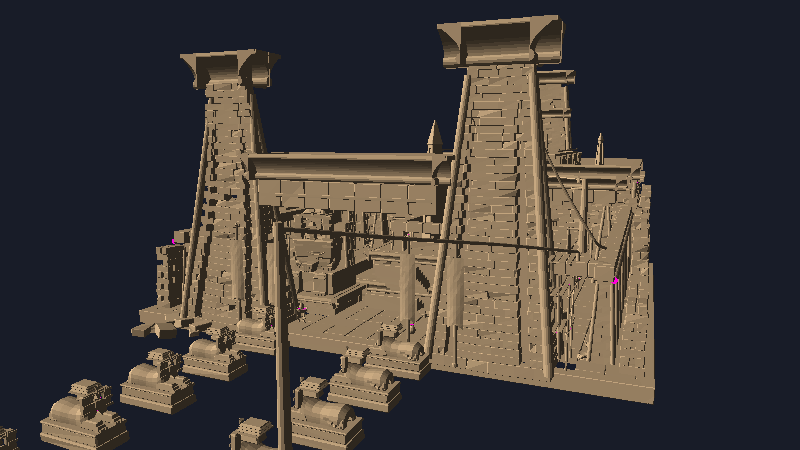
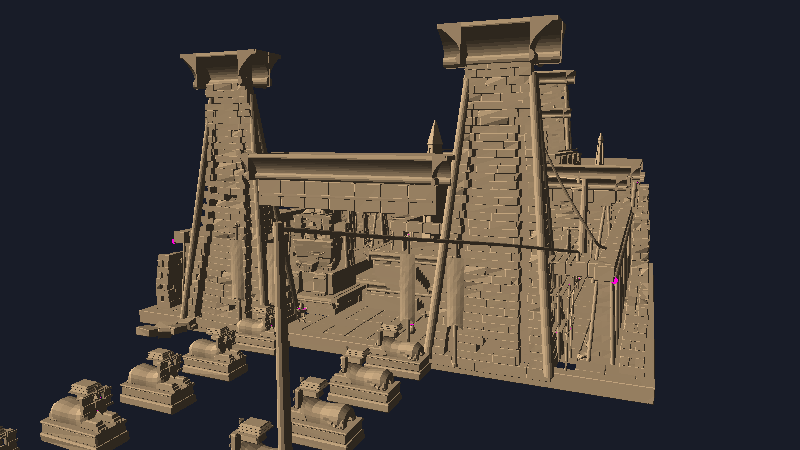
TEXTURES: the arris ring was landing on the bevel wall and cancelling there
Profiled on the built Surface rather than argued: luma against texels outside
the cut, control -> arris-on, hieroglyph_wall at 10.16 mm/texel. The lip clears
the field only at d = 2..4 and peaks at d = 2, so above-field support is ~2-3
texels = 20-30 mm, not the 61 mm the comment claimed. The 61 mm is the support
of the ring TERM, and most of it sits below the field because it is painted on
the bevel — the same surface the loop is sinking by depth * r, so the lip was
being applied to the darkest part of the carving and cancelled.

At interior's 20.3 mm/px that is 1.0-1.5 px and at traversal's 34.3 it is
0.6-0.9 px: the feature the first seal asked a frame to show was sub-pixel at
the framing holding a third of it. Gate on (1 - r) so the lip is suppressed
exactly where the bevel is sunk — same ramp, so the two cannot fight — and
take the ring from a blur of twice the bevel radius rather than four times,
which was rejected for this job before as reading like a halo.

The re-seal's amendment is timestamped 10:34 UTC, before either arm booted,
per §81.3: the gilded recipe's roughness route is now measured rather than
left as a caveat (lip 0.6565 -> 0.6345, +3.1% on specular amount against a
recipe already measured at 0.38% of its gild mask over the bloom onset), so P5
predicts null on both of its routes instead of one. If both land null, gilded's
arris goes to 0 and stays there.

Claude-Session: https://claude.ai/code/session_01PXtatFVa9WWnKz5zHerfeC

diff --git a/src/textures/Materials.js b/src/textures/Materials.js
@@ -694,6 +694,9 @@ function carve(s, cut, line, o = {}) {
   const rb = Math.max(2, Math.round((bevelPx * size) / 1024));
   const cb = blurWrap(cut, size, rb, 2);
   const cw = blurWrap(cut, size, rb * 4, 2);
+  /* A second, intermediate blur that exists only for the arris — see the ring term below for
+   * why `cb` could not do the job and why `cw` is too wide. */
+  const cm = arrisIn > 0 ? blurWrap(cut, size, rb * 2, 2) : null;
   const chat = chatter > 0
     ? s.field(1.5, (u, v) => fbmN(u, v, 90, 3, 0.5, seed + 77) * 0.5 + 0.5)
     : null;
@@ -741,7 +744,31 @@ function carve(s, cut, line, o = {}) {
      * Physically it is edge wear, not lighting: three thousand years of hand, wind and rain take
      * the dirt film off an exposed arris and leave the sheltered floor of the cut holding it. */
     if (arris > 0) {
-      const ring = sat((cb[i] - cut[i]) * 3.0);
+      /* **Where the ring lands, which the first version got wrong, measured rather than argued.**
+       *
+       * `sat((cb - cut) * 3.0)` puts its whole weight in the first two texels outside the cut
+       * mask — which is the **bevel wall**, the surface this same loop is sinking by `depth * r`.
+       * So most of the lip was painted onto the darkest part of the carving and cancelled there.
+       * Profiled on the built Surface (luma against texels outside the cut, `hieroglyph_wall`,
+       * 10.16 mm/texel, control -> arris-on):
+       *
+       *     d texels    1       2       3       4       5       6
+       *     off      0.4533  0.4791  0.4779  0.4771  0.4790  0.4819    field 0.4926
+       *     on       0.4772  0.5145  0.5074  0.4973  0.4902  0.4867
+       *
+       * The lip cleared the field only at d = 2..4 and peaked at d = 2. **Above-field support was
+       * ~2-3 texels = 20-30 mm, not the 61 mm this comment used to claim** — the 61 mm is the
+       * support of the ring *term*, and most of that support sits below the field because it is
+       * on the bevel. At `interior`'s 20.3 mm/px that is 1.0-1.5 px and at `traversal`'s 34.3 it
+       * is 0.6-0.9 px, i.e. the feature the seal was asking a frame to show was **sub-pixel at
+       * the framing that holds 33 % of it.**
+       *
+       * Two changes, both from that profile. Gate on `(1 - r)` so the lip is suppressed exactly
+       * where the bevel is sunk — the same ramp, so the two cannot fight — and take the ring from
+       * a blur of twice the bevel radius so what is left after the gate is still wide. `cw`
+       * (4 x rb, 244 mm) was rejected for the same job when the height burr was written, and for
+       * the same reason: at that width it reads as a halo rather than an edge. */
+      const ring = sat((cm[i] - cut[i]) * 2.4) * (1 - r);
       if (ring > 0.01) {
         s.mixHex(i, arrisHex, ring * arris);
         // A worn arris is burnished as well as clean; a touch of gloss gives the spec term an
@@ -1797,8 +1824,18 @@ export const MATERIALS = {
        * cannot see a 20 %-coverage feature — §67.1's "coverage is not amplitude" applied at the
        * wrong end by the same file that recorded it. A re-seal wants `fineP90`, or `cov1` on a
        * glyph-adjacent sub-mask, and it wants a framing where the ring clears 2 px. That
-       * observation is post-hoc and licenses **re-sealing**, not keeping. */
-      const ramp = carve(s, cut, lines, { depth: 0.46, bevelPx: 3.0, lip: 0.12, bulge: 0.42, lineDepth: 0.62, seed: cx.seed + 5, arris: 0 /* was 0.22 */ });
+       * observation is post-hoc and licenses **re-sealing**, not keeping.
+       *
+       * RE-SEALED under `PREREG-hgarris2`, and the framing half turned out to matter more than
+       * the statistic half. `progress/records/ringpx.mjs` measures surface mm/px per material
+       * per framing (it reproduces this comment's own 20.6 for `interior` at 20.3), and the
+       * first seal had picked **the two framings where this feature is smallest**: the 61 mm
+       * ring is **1.78 px** at `traversal` — below the 2 px where it was measured to stop
+       * paying — and 3.01 px at `interior`. It is **4.51 px on `hero`, where `hieroglyph_gilded`
+       * is 29 % of frame**, 3.07 px on `temple` where `column_papyrus` is 54 %, and 20.9 px on
+       * `guard`. Three of the four recipes carrying the arris were unmeasurable at the framings
+       * the first seal chose, and the fourth was at the threshold. */
+      const ramp = carve(s, cut, lines, { depth: 0.46, bevelPx: 3.0, lip: 0.12, bulge: 0.42, lineDepth: 0.62, seed: cx.seed + 5, arris: 0.22 });
       freshCutTint(s, ramp, { amount: 0.16 });
       /* `freq` derived from a metre figure, not written as a bare cycle count — see
        * `PAINT_WEAR_M`. At 10.4 m of world per repeat and a 2.08 m cell this is 5 cycles/tile,
@@ -1994,9 +2031,11 @@ export const MATERIALS = {
        * 0.478 against face 0.629 with the raised class at 0.622, i.e. *below* the field. 0.16
        * rather than the wall's 0.22 because gold's own ramp already spends range across the cut
        * and doubling it would flatten the ramp's top. */
-      // Arris reverted with the rest of the family — see `hieroglyph_wall`. Measured null here
-      // too: `traversal` fineMed -0.3 %, `interior` +0.3 %, both inside the noise floor.
-      const ramp = carve(s, cut, lines, { depth: 0.42, bevelPx: 2.6, lip: 0.10, bulge: 0.5, lineDepth: 0.56, seed: cx.seed + 5, arris: 0 /* was 0.16 */, arrisHex: PAL.goldLight, arrisPolish: 0.08 });
+      /* Restored under `PREREG-hgarris2`. The first seal read this recipe as a null on
+       * `traversal` (fineMed -0.3 %) and `interior` (+0.3 %) — both framings where the ring is
+       * 2.25 px and 2.91 px. It is **29 % of `hero` at 4.51 px**, which is the framing that
+       * decides §7.3's gold line and which that seal never captured. */
+      const ramp = carve(s, cut, lines, { depth: 0.42, bevelPx: 2.6, lip: 0.10, bulge: 0.5, lineDepth: 0.56, seed: cx.seed + 5, arris: 0.16, arrisHex: PAL.goldLight, arrisPolish: 0.08 });
 
       // Gold leaf laid into the sunk glyphs over a red bole ground; the leaf lifts at the arrises.
       const lift = s.field(2, (u, v) => sat(warpN(u, v, 14, 4, 1.1, cx.seed + 31) * 1.4 + 0.5));
@@ -2106,9 +2145,12 @@ export const MATERIALS = {
       const cut = rasterMask(size, layout('cut'));
       const lines = rasterMask(size, layout('line'));
       const paint = rasterRGBA(size, layout('paint'));
-      // Arris reverted with the rest of the family — see `hieroglyph_wall`. Not measured in
-      // frame: this recipe holds under 1 % of both captured shots.
-      const ramp = carve(s, cut, lines, { depth: 0.50, bevelPx: 3.2, lip: 0.14, bulge: 0.52, lineDepth: 0.52, seed: cx.seed + 5, arris: 0 /* was 0.20 */ });
+      /* Restored with the family under `PREREG-hgarris2`, and flagged as **unscoreable by
+       * construction rather than merely unmeasured**: `ringpx.mjs` renders this recipe at
+       * **zero pixels in all fourteen framings**, which agrees with this file's own PREWARM note
+       * that it has no consumer in `Architecture.RECIPES` or `Props.MATERIALS`. Nothing authored
+       * here can appear in any frame until something wires it up. */
+      const ramp = carve(s, cut, lines, { depth: 0.50, bevelPx: 3.2, lip: 0.14, bulge: 0.52, lineDepth: 0.52, seed: cx.seed + 5, arris: 0.20 });
       freshCutTint(s, ramp, { amount: 0.18 });
       paintRemnants(s, ramp, paint, { survival: 0.48, freq: 4, seed: cx.seed + 9, edgeLoss: 0.68, fade: 0.44 });
       chiselMarks(s, { amount: 0.014, angle: -0.30, freq: 44, seed: cx.seed + 1, mask: m.edge });
@@ -2734,9 +2776,12 @@ export const MATERIALS = {
       /* Publish the joint mask so the build-time joint-sign assertion in `Textures._build()`
          covers this recipe too. It only reads `.joint`; there are no blocks here to id. */
       s.masonry = { joint: drum };
-      // Arris reverted with the rest of the family — see `hieroglyph_wall`. Not measured in
-      // frame: `column_papyrus` is absent from both captured shots.
-      const ramp = carve(s, textCut, textLine, { depth: 0.40, bevelPx: 2.4, lip: 0.09, bulge: 0.45, lineDepth: 0.60, seed: cx.seed + 5, arris: 0 /* was 0.18 */ });
+      /* Restored under `PREREG-hgarris2`, and this recipe is the reason the first seal's framing
+       * choice was the error rather than its statistic. "Absent from both captured shots" was
+       * true and was a fact about the shots: `column_papyrus` is **54.1 % of `temple`** — the
+       * largest single-material share of any framing in the set — at 19.9 mm/px, so its 61 mm
+       * ring is 3.07 px there. `temple` is now in the seal. */
+      const ramp = carve(s, textCut, textLine, { depth: 0.40, bevelPx: 2.4, lip: 0.09, bulge: 0.45, lineDepth: 0.60, seed: cx.seed + 5, arris: 0.18 });
       freshCutTint(s, ramp, { amount: 0.14 });
       /* `survival` 0.34 → 0.46. With the registers above landing, the band interior measured
        * relative local contrast **0.0231 in frame against `hieroglyph_wall`'s 0.0305**, and its

diff --git a/progress/records/abcheck.html b/progress/records/abcheck.html
@@ -14,7 +14,12 @@
     # then open http://127.0.0.1:5399/progress/records/abcheck.html
 
   Expected with the variable set:
-    {"metaEnv":"object","raw":"base","list":["base"],"hgOff":true,"granOff":true,"paveOff":true}
+    {"metaEnv":"object","raw":"base","list":["base"],"hgOff":true,"granOff":true,"paveOff":true,"hgArrisOff":true}
+
+  PREREG-hgarris2 uses the narrower key `hgarris` (the albedo lip alone, with the layout jitter
+  left live in both arms), so that flag is reported separately: with VITE_TEX_AB=hgarris expect
+  hgArrisOff true and hgOff/granOff/paveOff all FALSE — a control that turned off more than the
+  seal names is not that seal's control.
   With it unset, `raw` is null and all three flags are false.
 
   This page is the pre-flight. The receipt is the boot warning `Textures.init()` pushes into
@@ -26,6 +31,8 @@ import { TEX_AB, abOff } from '/src/textures/Canvas2D.js';
 document.getElementById('o').textContent = JSON.stringify({
   metaEnv: typeof import.meta.env, raw: import.meta.env?.VITE_TEX_AB ?? null,
   list: TEX_AB(), hgOff: abOff('hgrelief'), granOff: abOff('granite'), paveOff: abOff('pavecrack'),
+  hgArrisOff: abOff('hgarris'), hgLayoutOff: abOff('hglayout'),
 });
-window.__ABCHECK = { list: TEX_AB(), raw: import.meta.env?.VITE_TEX_AB ?? null };
+window.__ABCHECK = { list: TEX_AB(), raw: import.meta.env?.VITE_TEX_AB ?? null,
+  hgArrisOff: abOff('hgarris'), hgLayoutOff: abOff('hglayout'), granOff: abOff('granite') };
 </script>

diff --git a/progress/records/PREREG-hgarris2.md b/progress/records/PREREG-hgarris2.md
@@ -135,13 +135,21 @@ Shots: `traversal`, `interior`, `temple`, `hero`. 1280×720, quality high.
   P1** — it is scored and reported on its own, and if it is null this recipe's `arris` goes to 0
   while the wall's is decided on the wall's evidence.
 
-- **P5 — `hieroglyph_gilded` on `hero`: a prediction of NO EFFECT.** |ΔfineP90| expected **< +2.0 %**
-  (texture-side +0.5 % at 13.5 mm/px). Registered in advance because a null is the *expected*
-  result and must not be read later as a failure of P1.
-  The gilded recipe's actual claim is **not** albedo: it is `arrisPolish 0.08`, a roughness notch on
-  the ring feeding a `spec 0.55 / gloss 64 / metal true` material — §7.3's "hard spec". **The albedo
-  lab is structurally blind to that**, so it is judged on the image at 8× on `hero` and on nothing
-  else. If the image shows no glint either, gilded's `arris` goes to 0.
+- **P5 — `hieroglyph_gilded` on `hero`: a prediction of NO EFFECT, on both of its routes.**
+  |ΔfineP90| expected **< +2.0 %** (texture-side +0.5 % at 13.5 mm/px). Registered in advance
+  because a null is the *expected* result and must not be read later as a failure of P1.
+
+  **AMENDED 10:34 UTC, before either arm booted** (this file's mtime is the receipt; the capture's
+  `report.json` timestamp is later) (§81.3's discipline: amend and timestamp, never
+  adjust afterwards). The gilded recipe's second route is `arrisPolish 0.08`, a roughness notch
+  feeding a `spec 0.55 / gloss 64 / metal true` material — §7.3's "hard spec" — and the albedo lab
+  was structurally blind to it. It is now measured rather than left as a caveat: lip roughness
+  (d 1–4 outside the cut) **0.6565 → 0.6345**, field bit-stable at 0.6493. Through
+  `specAmt ∝ (1 − 0.75·rgh)` that is **+3.1 % on the specular amount**, against a recipe this
+  file has already measured at **0.38 % of its gild mask over the bloom onset** at `spec 0.55`.
+  **So the roughness route is predicted null in the image too**, and P5 now predicts *both*.
+  *If both land null, gilded's `arris` goes to 0 and stays there* — the value would then be
+  decoration, and the record should say so rather than carry it.
 
 - **P6 — NULLS, and they are the error bar.** `sandstone_block`, `sandstone_worn`,
   `paving_courtyard`, `granite_pink`, `limestone_polished`, `mudbrick`, `ceiling_stars` are
